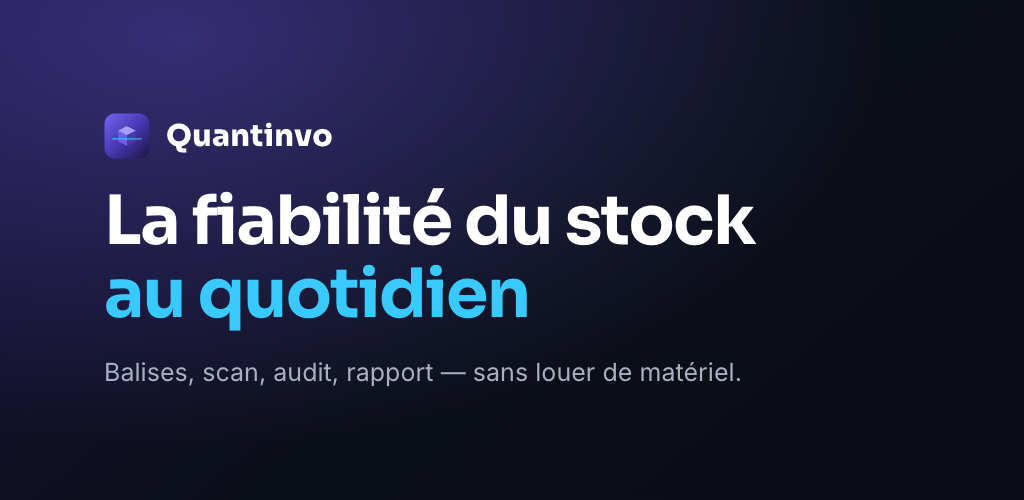
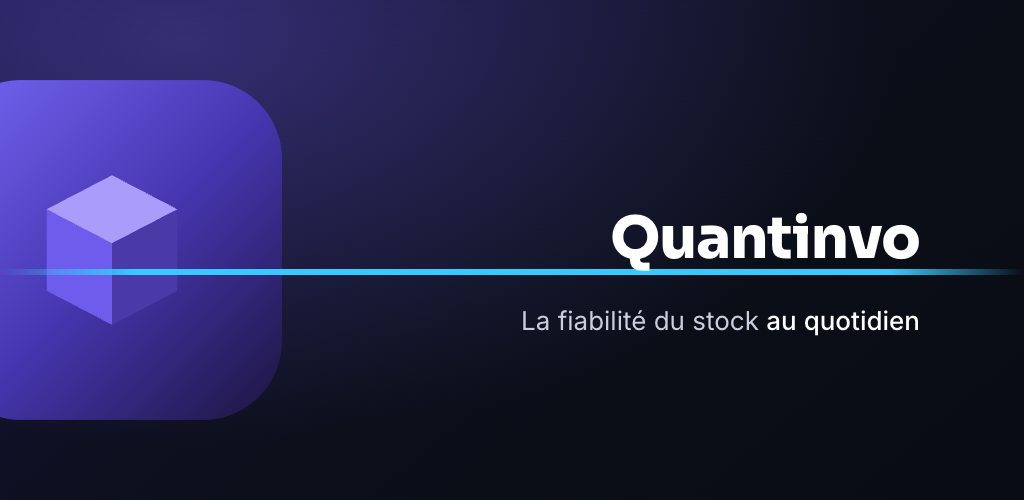
Le bandeau Play passe sur « le geste »
Julien avait d'abord retenu « la phrase », puis tranché pour « le geste »
après l'avoir vu produit. Le cube déborde du cadre à gauche et la ligne de
scan le prolonge sur toute la largeur ; le nom et la baseline sont à
droite, de part et d'autre de la ligne.

⚠ La ligne est posée à la hauteur de la barre cyan du cube — 56,25 % de sa
hauteur, soit 272 px — et non au milieu de l'image. C'est ce qui la fait
lire comme le prolongement du logo plutôt que comme un trait décoratif posé
par-dessus. Si la taille du cube change, cette valeur se recalcule.

⚠ La barre interne du cube est retirée sur ce bandeau, et seulement là :
elle ferait doublon avec la ligne qui la prolonge. Le logo de
l'application, du site et des e-mails la garde.

Le risque est connu et accepté : c'est la piste dont le cube déborde, donc
celle qui perd le plus si Play recadre. Le texte, lui, reste à 104 px du
bord — c'est le cube qui accepte d'être coupé, pas les mots. « La phrase »
reste le repli si la fiche paraît muette.

La maquette porte la même géométrie que le fichier produit, au cqw près :
une maquette qui montre une autre césure que l'image livrée fait valider
quelque chose que personne ne recevra.

Changed region(s): [[0.0, 0.15, 1.0, 0.84]]

diff --git a/docs/entreprise/boutiques/bandeau-play.html b/docs/entreprise/boutiques/bandeau-play.html
@@ -10,6 +10,20 @@
      en PNG par `produire.mjs`. Ne pas retoucher l'image produite — elle serait
      écrasée à la génération suivante ; c'est ici qu'on modifie.
 
+     Piste retenue : « le geste ». Le cube déborde du cadre à gauche et la
+     ligne de scan le prolonge sur toute la largeur. C'est le seul geste
+     graphique que la marque possède, joué en grand.
+
+     ⚠ **La ligne est posée à la hauteur de la barre cyan du cube**, pas au
+     milieu de l'image : c'est ce qui la fait lire comme le prolongement du
+     logo plutôt que comme un trait décoratif posé par-dessus. La barre du cube
+     est à 56,25 % de sa hauteur (y = 288 sur 512) — si la taille du cube
+     change, cette valeur se recalcule.
+
+     ⚠ **La barre interne du cube est retirée ici, et seulement ici.** Elle
+     ferait doublon avec la ligne qui la prolonge. Le logo de l'application, du
+     site et des e-mails la garde.
+
      Les polices sont celles de la charte (Sora, Inter). Elles sont installées
      sur le poste de Julien, donc le rendu tient même hors ligne ; le lien
      Google Fonts n'est qu'un filet. `produire.mjs` refuse de sortir l'image si
@@ -29,49 +43,62 @@
       radial-gradient(120% 140% at 18% 8%, rgba(116,102,244,.34) 0%, rgba(11,15,25,0) 58%),
       linear-gradient(140deg, #17123A 0%, #0B0F19 52%, #090C14 100%);
   }
-  .contenu {
-    position: absolute; inset: 0;
-    padding: 62px 104px;
-    display: flex; flex-direction: column; justify-content: center; gap: 26px;
+
+  /* Le cube : 348 px, débordant de 62 px à gauche, centré verticalement.
+     Sa barre cyan tomberait à 76 + 348 × 0,5625 = 272 px du haut. */
+  .cube {
+    position: absolute; left: -62px; top: 76px;
+    width: 348px; height: 348px; display: block;
   }
-  .marque { display: flex; align-items: center; gap: 16px; }
-  .marque svg { width: 46px; height: 46px; display: block; }
+  .ligne {
+    position: absolute; left: 0; right: 0; top: 272px; height: 6px;
+    transform: translateY(-50%);
+    background: linear-gradient(90deg,
+      rgba(56,201,255,0) 0%, #38C9FF 13%, #38C9FF 87%, rgba(56,201,255,0) 100%);
+  }
+
+  /* Le texte est aligné à droite mais s'arrête à 104 px du bord : Play recadre
+     le bandeau selon les surfaces, rien d'important ne doit toucher les bords.
+     C'est le cube qui accepte d'être coupé, pas les mots. */
+  .texte {
+    position: absolute; right: 104px; top: 272px;
+    transform: translateY(-50%);
+    display: flex; flex-direction: column; align-items: flex-end;
+    gap: 40px;
+  }
   .mot {
-    font-weight: 800; font-size: 30px; letter-spacing: .01em; color: #FFFFFF;
+    font-weight: 800; font-size: 58px; letter-spacing: -.015em; color: #FFFFFF;
+    line-height: 1;
   }
-  .titre {
-    font-weight: 700; font-size: 68px; line-height: 1.08;
-    letter-spacing: -.025em; color: #FFFFFF;
+  .phrase {
+    font-family: Inter, sans-serif; font-weight: 400; font-size: 26px;
+    color: #C9CEDD; line-height: 1;
   }
-  .titre span { color: #38C9FF; }
-  .sous {
-    font-family: Inter, sans-serif; font-weight: 400; font-size: 25px;
-    color: #A8B0C2; letter-spacing: .002em;
-  }
+  .phrase span { color: #FFFFFF; font-weight: 500; }
 </style>
 </head>
 <body>
   <div class="voile"></div>
-  <div class="contenu">
-    <div class="marque">
-      <svg viewBox="0 0 512 512" aria-hidden="true">
-        <defs>
-          <linearGradient id="qbg" x1="0" y1="0" x2="1" y2="1">
-            <stop offset="0" stop-color="#7466F4"/>
-            <stop offset=".52" stop-color="#4636B0"/>
-            <stop offset="1" stop-color="#1C153F"/>
-          </linearGradient>
-        </defs>
-        <rect x="6" y="6" width="500" height="500" rx="116" fill="url(#qbg)"/>
-        <polygon points="256,146 352,196 256,246 160,196" fill="#A99CFA"/>
-        <polygon points="160,196 256,246 256,366 160,316" fill="#6E5DEC"/>
-        <polygon points="352,196 352,316 256,366 256,246" fill="#4A3AA8"/>
-        <rect x="92" y="282" width="328" height="12" rx="6" fill="#38C9FF"/>
-      </svg>
-      <span class="mot">Quantinvo</span>
-    </div>
-    <h1 class="titre">La fiabilité du stock<br><span>au quotidien</span></h1>
-    <p class="sous">Balises, scan, audit, rapport — sans louer de matériel.</p>
+
+  <svg class="cube" viewBox="0 0 512 512" aria-hidden="true">
+    <defs>
+      <linearGradient id="qbg" x1="0" y1="0" x2="1" y2="1">
+        <stop offset="0" stop-color="#7466F4"/>
+        <stop offset=".52" stop-color="#4636B0"/>
+        <stop offset="1" stop-color="#1C153F"/>
+      </linearGradient>
+    </defs>
+    <rect x="6" y="6" width="500" height="500" rx="116" fill="url(#qbg)"/>
+    <polygon points="256,146 352,196 256,246 160,196" fill="#A99CFA"/>
+    <polygon points="160,196 256,246 256,366 160,316" fill="#6E5DEC"/>
+    <polygon points="352,196 352,316 256,366 256,246" fill="#4A3AA8"/>
+  </svg>
+
+  <div class="ligne"></div>
+
+  <div class="texte">
+    <div class="mot">Quantinvo</div>
+    <p class="phrase">La fiabilité du stock <span>au quotidien</span></p>
   </div>
 </body>
 </html>

diff --git a/docs/entreprise/boutiques/LISEZMOI.md b/docs/entreprise/boutiques/LISEZMOI.md
@@ -43,10 +43,23 @@ Trois pistes présentées, chacune vue en grand **et à 336 px** — la taille o
 Play l'affiche le plus souvent, et donc celle qui décide. Maquette :
 https://claude.ai/code/artifact/73d58469-dc29-458e-9f23-177c372713d8
 
-Retenue : **la phrase**. Le nom passe en petit, la promesse occupe la place.
-La personne qui voit ce bandeau vient de chercher « inventaire » et ne sait pas
-ce qu'est Quantinvo ; répéter le logo, déjà affiché à côté dans la fiche,
-n'apprend rien.
+Retenue par Julien : **le geste**. Le cube déborde du cadre à gauche et la
+ligne de scan le prolonge sur toute la largeur ; le nom et la baseline sont à
+droite, de part et d'autre de la ligne.
+
+⚠ **La ligne est posée à la hauteur de la barre cyan du cube** (56,25 % de sa
+hauteur), pas au milieu de l'image : c'est ce qui la fait lire comme le
+prolongement du logo plutôt que comme un trait décoratif. Si la taille du cube
+change, cette valeur se recalcule.
+
+⚠ **La barre interne du cube est retirée sur ce bandeau, et seulement là** —
+elle ferait doublon avec la ligne qui la prolonge. Le logo de l'application, du
+site et des e-mails la garde.
+
+⚠ **Le risque connu, accepté** : c'est la piste dont le cube déborde, donc
+celle qui perd le plus si Play recadre. Le texte, lui, reste à 104 px du bord.
+La piste « la phrase », écartée, mettait la baseline en grand et ne risquait
+rien au recadrage — c'est la solution de repli si la fiche paraît muette.
 
 **La baseline est « La fiabilité du stock au quotidien »** (Julien, 2 septembre
 2026). ⚠ Elle est **nouvelle** : elle n'existait nulle part ailleurs dans le
